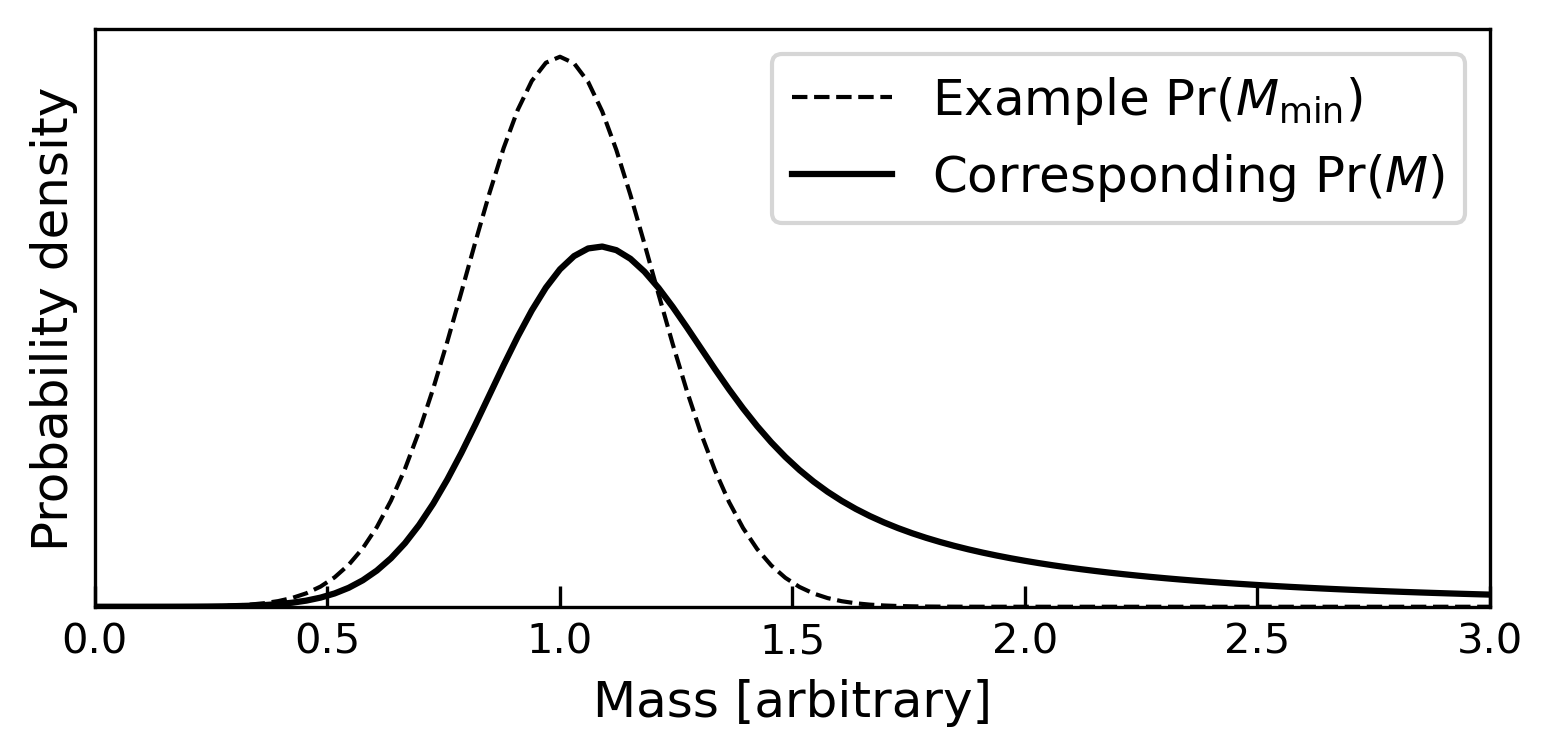
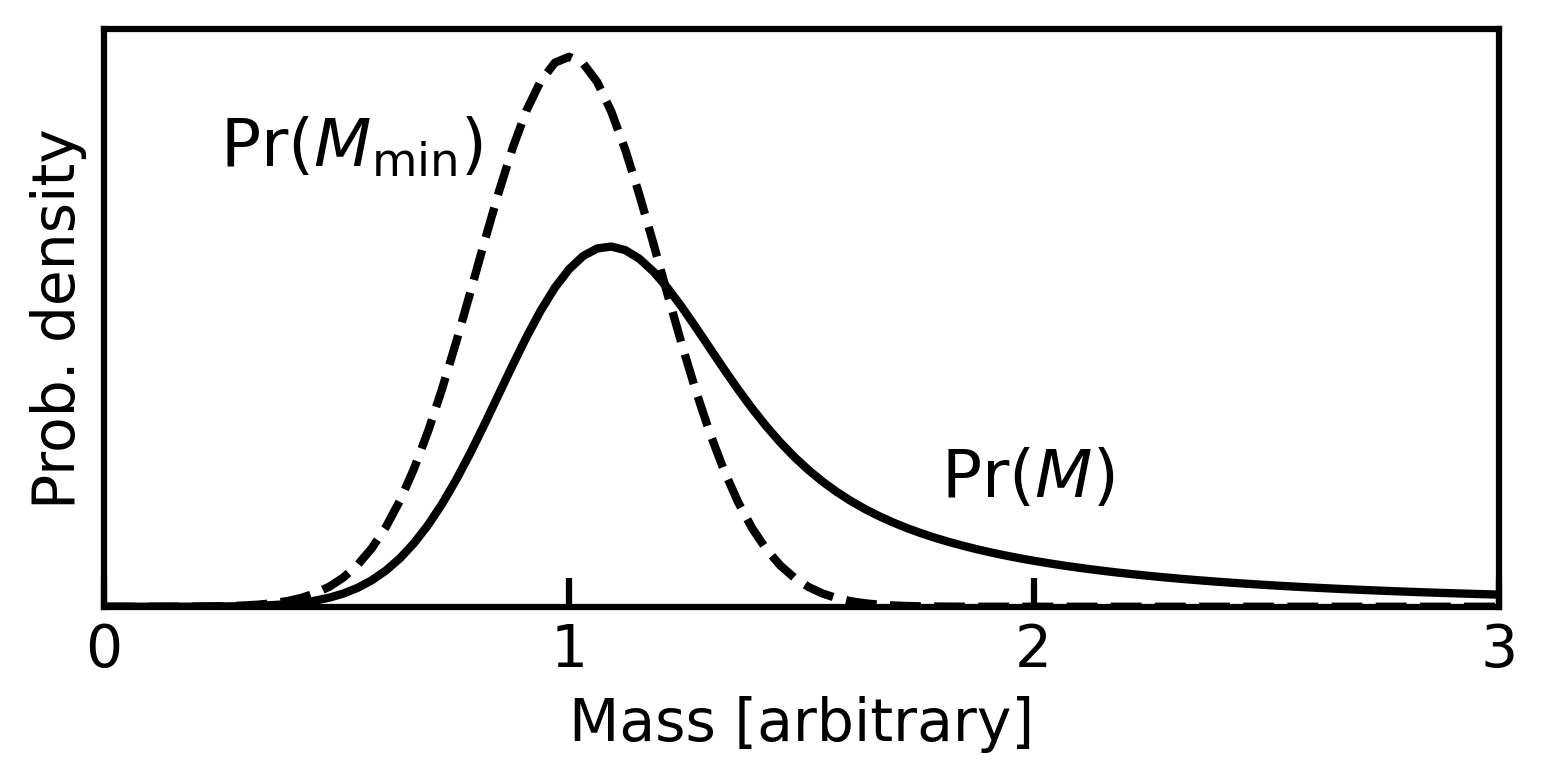
Improve sizings on Fig. 1

diff --git a/scripts/figs/plot_truevmin.py b/scripts/figs/plot_truevmin.py
@@ -37,23 +37,22 @@ def main() -> None:
 
     fg, ax = plt.subplots(figsize=(6, 2.5))
     masses = np.linspace(0.001, 3, 100)
-    ax.plot(
-        masses,
-        prior_mmin(masses),
-        label="Example $\\Pr(M_{\\rm min})$",
-        c="k",
-        ls="--",
-        lw=1,
-    )
-    ax.plot(masses, prior_mtrue(masses), label="Corresponding $\\Pr(M)$", c="k")
+    ax.plot(masses, prior_mmin(masses), c="k", ls="--", lw=2)
+    ax.plot(masses, prior_mtrue(masses), c="k", lw=2)
 
-    ax.set_xlabel("Mass [arbitrary]", fontsize=12)
+    ax.set_xlabel("Mass [arbitrary]", fontsize=14)
     ax.set_xlim(0, np.max(masses))
+    ax.set_xticks([0, 1, 2, 3])
     ax.set_yticks([])
-    ax.set_ylabel("Probability density", fontsize=12)
+    ax.set_ylabel("Prob. density", fontsize=14)
     ax.set_ylim(0, ax.get_ylim()[1])
-    ax.tick_params(axis="x", length=5, labelsize=10, direction="in")
-    ax.legend(fontsize=12)
+
+    for spine in ["left", "right", "top", "bottom"]:
+        ax.spines[spine].set_linewidth(1.5)
+    ax.tick_params(axis="x", length=7, labelsize=14, direction="in", width=1.5)
+
+    ax.annotate("$\\Pr(M_{\\rm min})$", xy=(0.25, 1.6), fontsize=16)
+    ax.annotate("$\\Pr(M)$", xy=(1.8, 0.4), fontsize=16)
 
     figure_path.parent.mkdir(parents=True, exist_ok=True)
     fg.savefig(figure_path, dpi=300, bbox_inches="tight")
